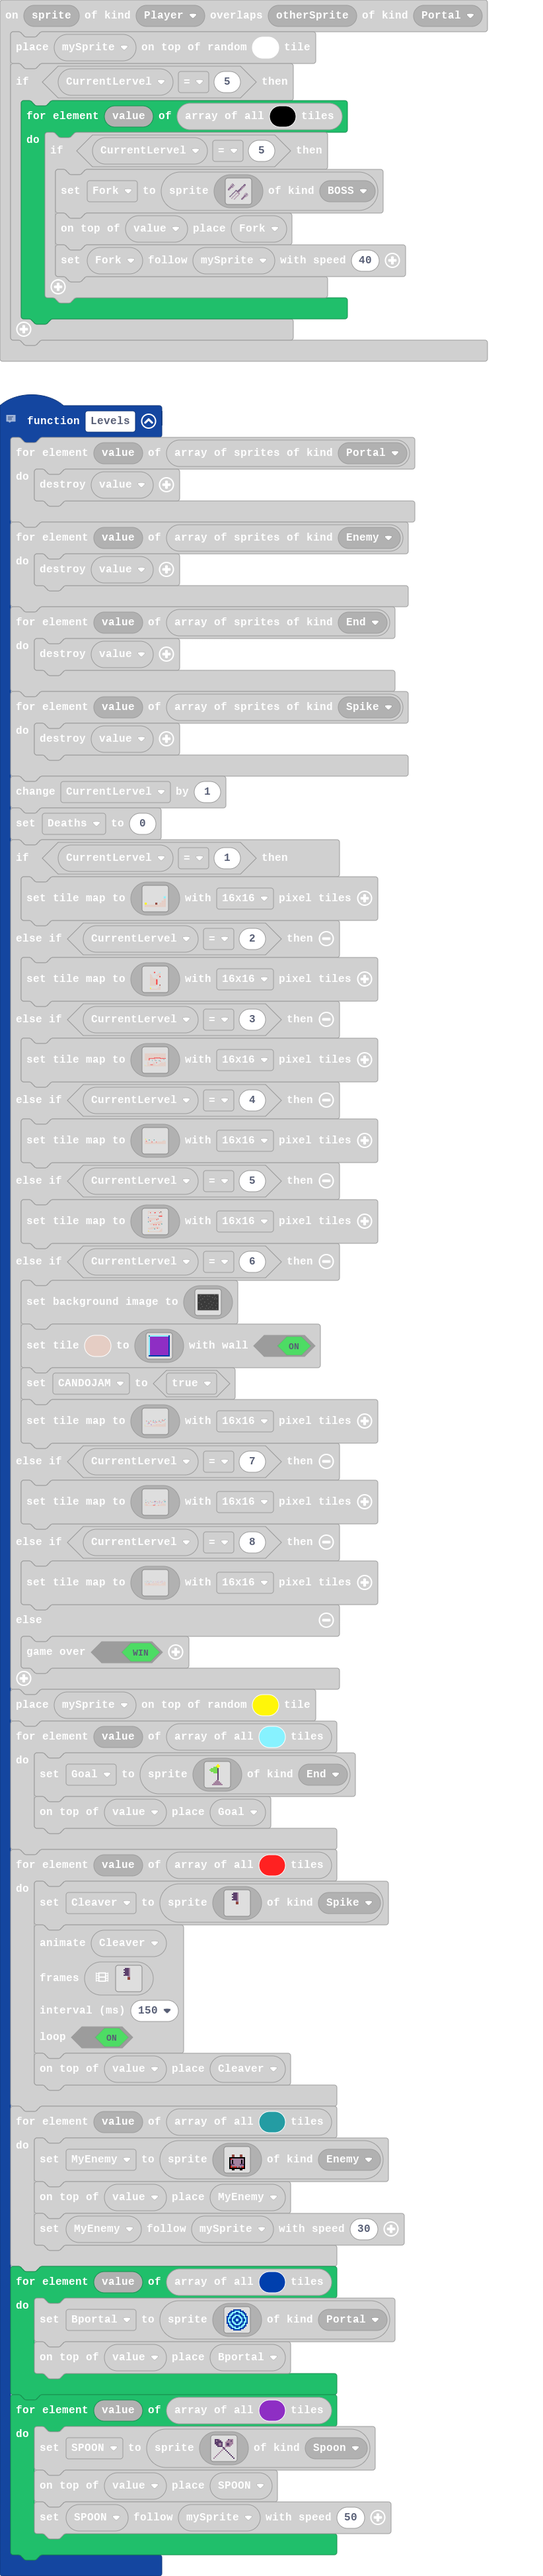
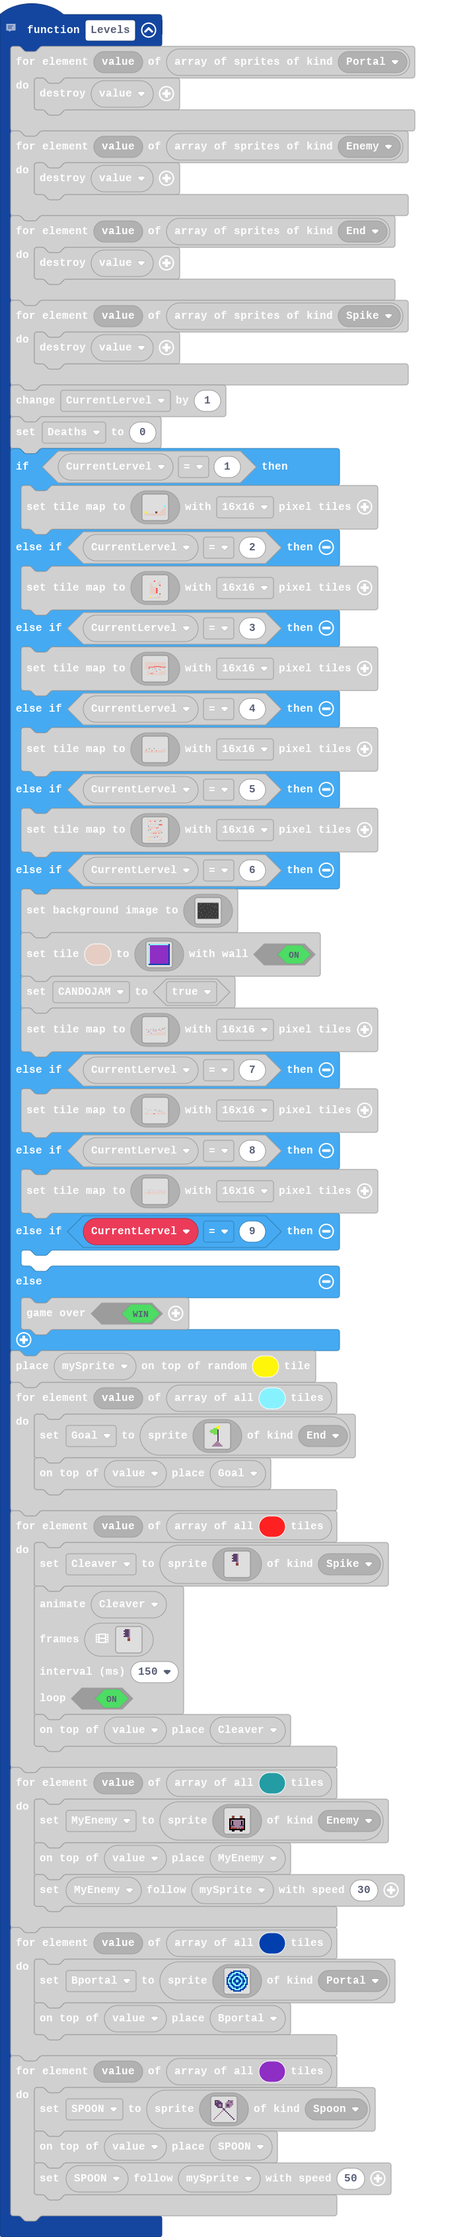
Updated Another Thing

diff --git a/images.g.ts b/images.g.ts
@@ -553,29 +553,6 @@ b . . . . . . . . . . . . . . c
 d...........dddddddddddddddddddddddddddd
 dddddddddddddddddddddddddddddddddddddddd
 `;
-            case "image4":
-            case "2-2":return img`
-..................................................
-..................................................
-..................................................
-..................................................
-..................................................
-..................................................
-..6............................................2..
-............................................6.....
-..................................6...............
-.............2.........66.2........2...........66.
-.......6...............aa.....2..........2....6..6
-..6.............6..2..............................
-...2..............................a....a..........
-.........2...................6....................
-.........................................ddddd...9
-5.......................a..............ddddddddddd
-dddd.................................ddddddddddddd
-ddddd2.............................ddddddddddddddd
-dddddddddddddddddddd22222.......2ddddddddddddddddd
-dddddddddddddddddddddddddddddddddddddddddddddddddd
-`;
             case "image8":
             case "2-3":return img`
 ......................................................................
@@ -598,6 +575,29 @@ dddddddddddddddddddddddddddddddddddddddddddddddddddddddddddddddddddddd
 dddddddddddddddddddddddddddddddddddddddddddddddddddddddddddddddddddddd
 dddddddddddddddddddddddddddddddddddddddddddddddddddddddddddddddddddddd
 dddddddddddddddddddddddddddddddddddddddddddddddddddddddddddddddddddddd
+`;
+            case "image4":
+            case "2-2":return img`
+..................................................
+..................................................
+..................................................
+..................................................
+..................................................
+..................................................
+..6...............................................
+..................................................
+..................................................
+.............2.........6..2........2..............
+.......6..........................................
+..................................................
+..................................a....a..........
+.............................6....................
+.........................................ddddd...9
+5......................................ddddddddddd
+dddd.................................ddddddddddddd
+ddddd2.............................ddddddddddddddd
+dddddddddddddddddddd22222.......2ddddddddddddddddd
+dddddddddddddddddddddddddddddddddddddddddddddddddd
 `;
         }
         return null;

diff --git a/main.ts b/main.ts
@@ -42,6 +42,8 @@ function Levels () {
         scene.setTileMap(assets.image`2-2`, TileScale.Sixteen)
     } else if (CurrentLervel == 8) {
         scene.setTileMap(assets.image`2-3`, TileScale.Sixteen)
+    } else if (CurrentLervel == 9) {
+    	
     } else {
         game.over(true)
     }
